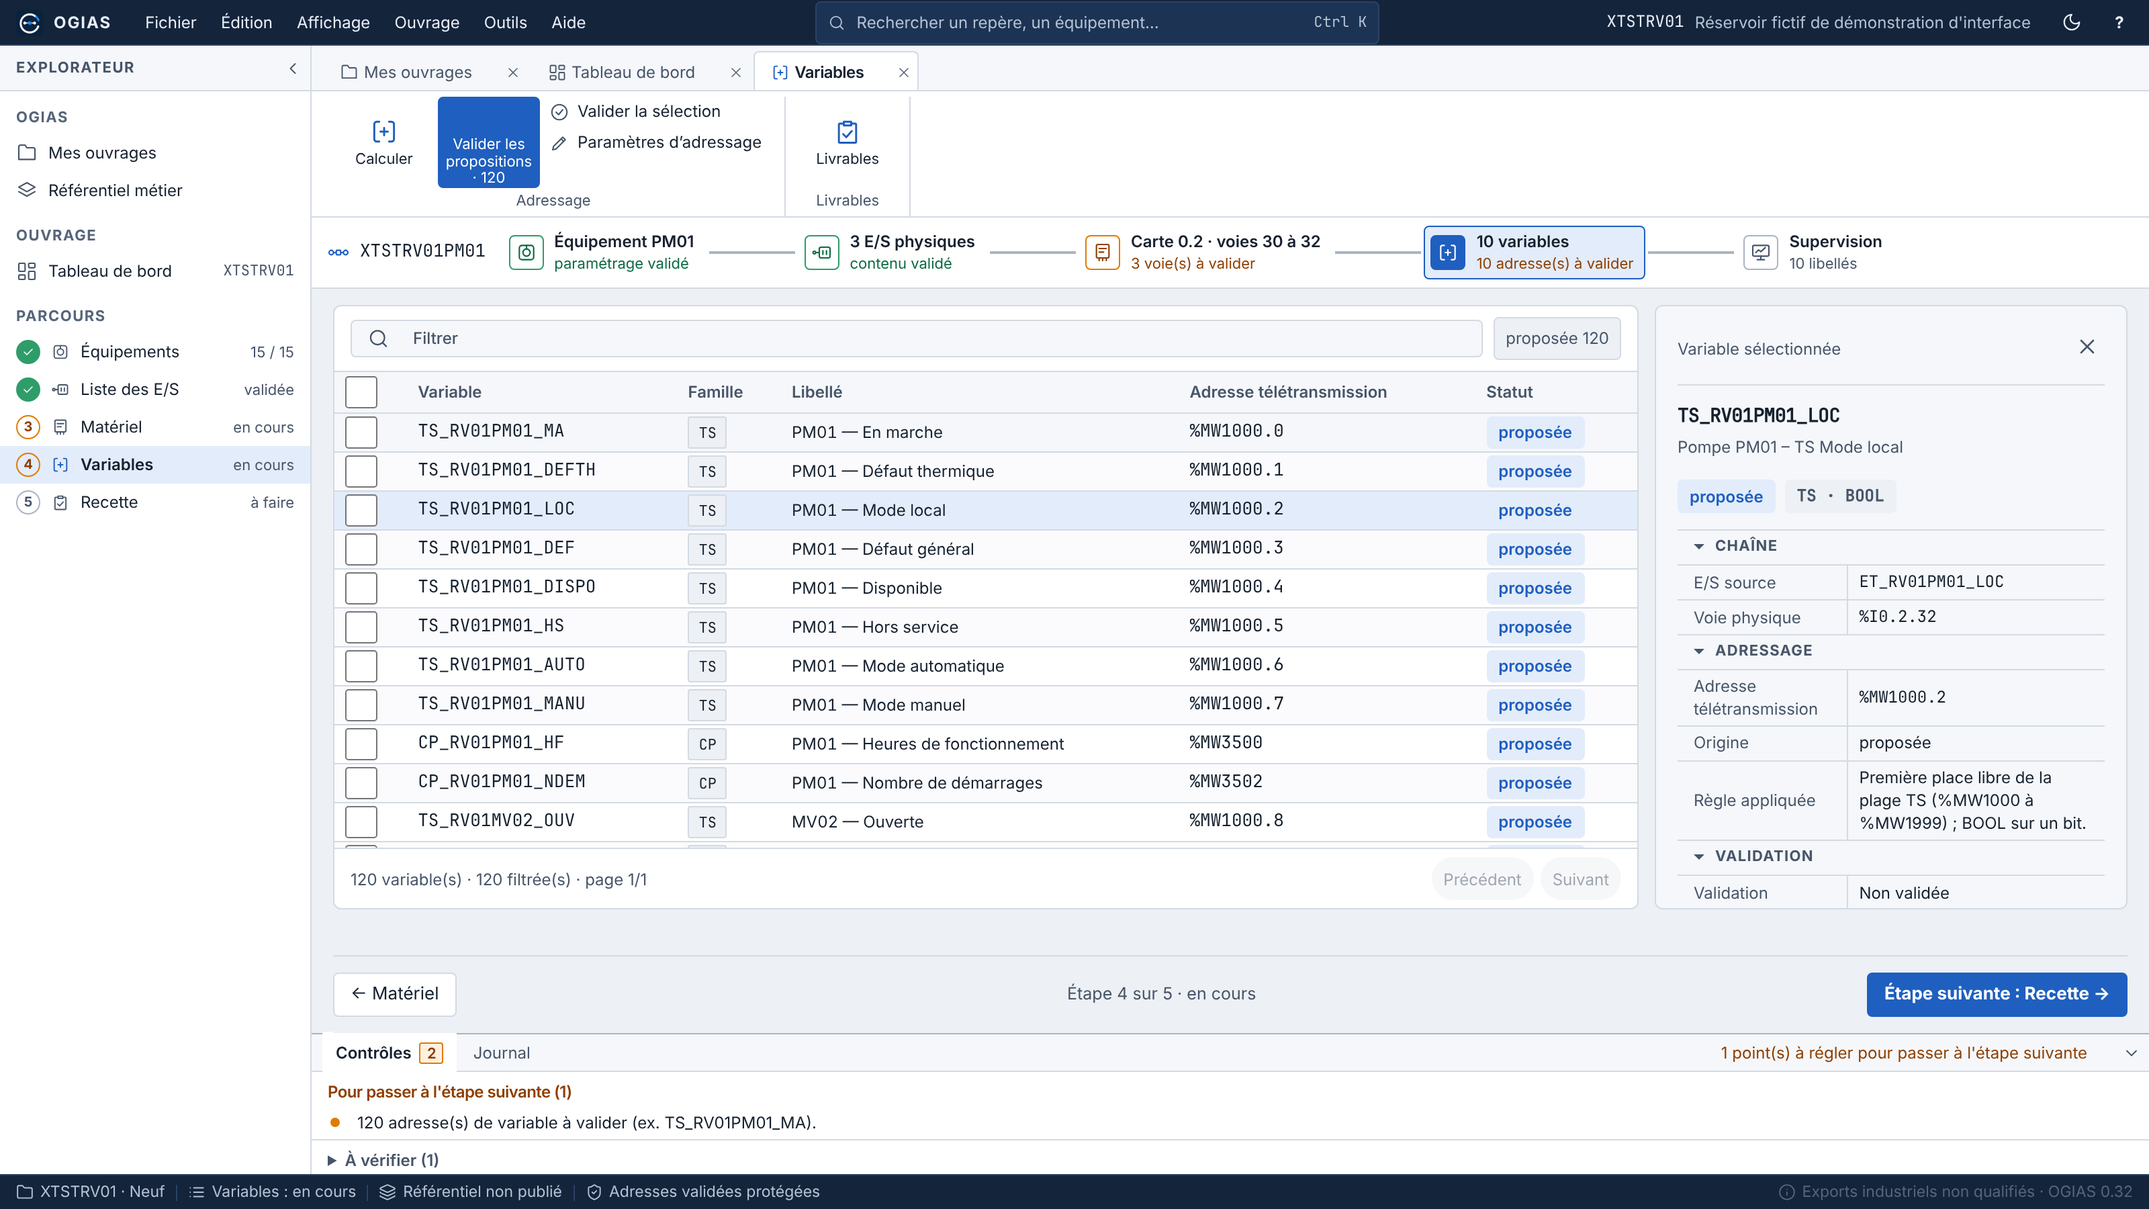
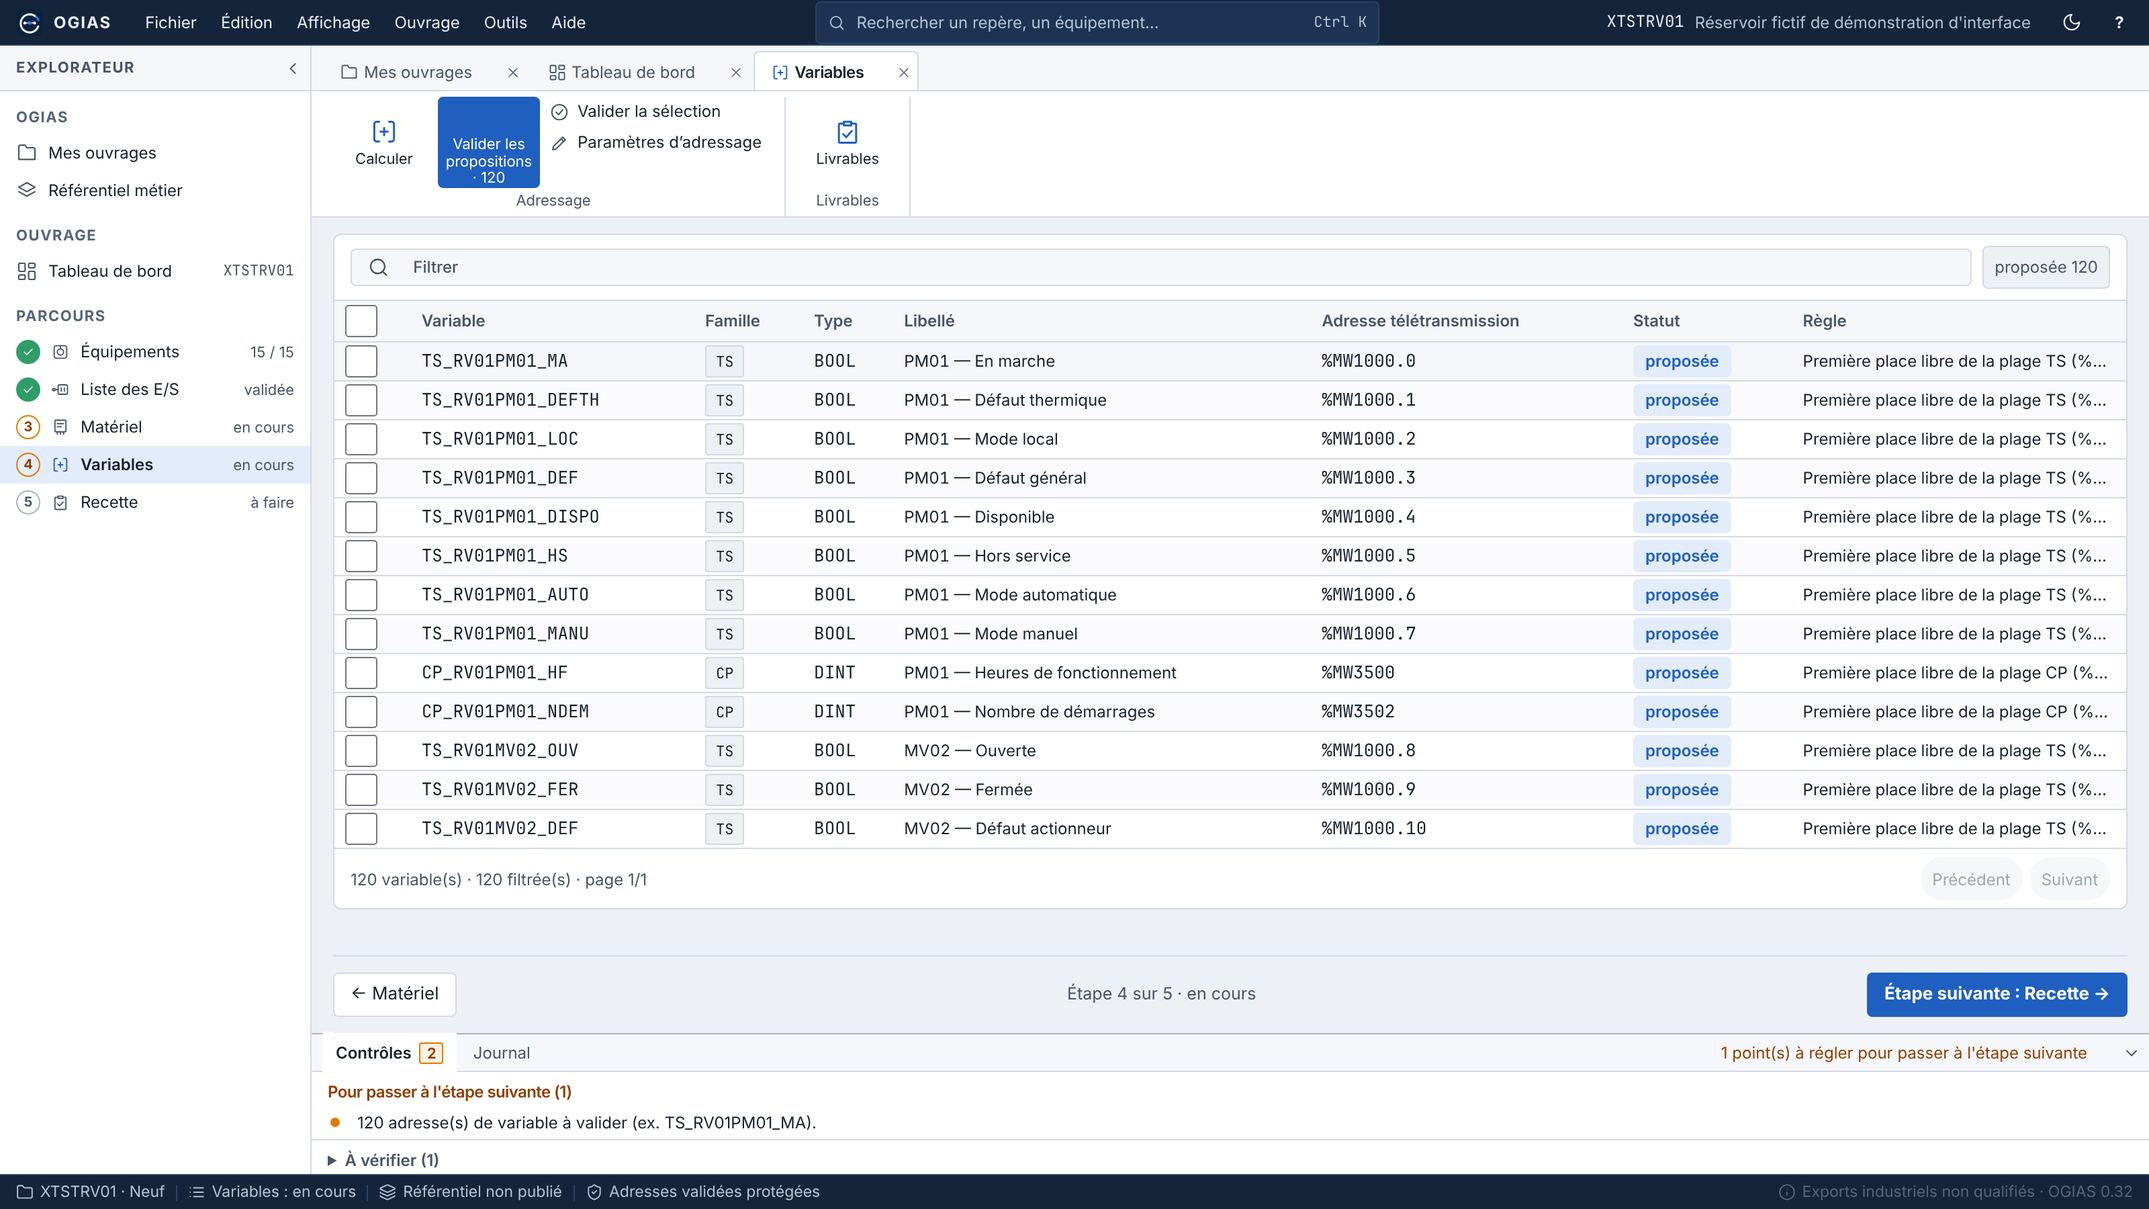
Variables : Famille et Type, adresse de télétransmission en %MW décalée au besoin (retours du 18/11, 19 h 53 à 20 h)
- Les E/S physiques ne sont jamais décalées.
- Une seule colonne « Adresse télétransmission », en %MW : c'est l'adresse que lit la supervision. Sans décalage,
  c'est l'adresse automate ; si l'utilisateur règle un décalage Modbus, ce sont ces %MW qui sont décalés
  (%MW1000.2 → %MW1100.2 pour 100). Plus de flèche ni de numéro de registre à part.
- Décalage saisi librement (entier, 0 par défaut, de -65535 à 65535) dans l'écran Adressage ; une adresse qui
  deviendrait négative est en conflit et bloque les exports.
- La colonne « Famille » (TS, TC, TM, TR, RTR, CP) reste ; ajout de la colonne « Type » (BOOL, INT, DINT, REAL…).

Claude-Session: https://claude.ai/code/session_01YHMiFfN7RqwgQ1d4qbK1Wa

Changed region(s): [[0.1562, 0.1867, 1.0, 0.7467]]

diff --git a/sorep_web/static/v031-variables.js b/sorep_web/static/v031-variables.js
@@ -61,14 +61,15 @@ document.addEventListener('keydown',ev=>{
    porte sur toute la liste filtrée : la colonne triée est appliquée aux données avant le découpage en pages. */
 const V31_PAGE=150;
 // Même texte que les cellules affichées (« — » compris), pour que le tri de la page par le tableau dense suive cet ordre.
-const V31_COLONNES={1:v=>v.nom,2:v=>v.famille,3:v=>v.libelle||v.commentaire||'—',4:(v,t)=>v31AdresseTele(v,t),
- 5:v=>v.etat_adressage||'non résolue',6:v=>v.motif||v.regle||'—'};
-/* Retour du 18/11 (19 h 28) : une seule colonne « Adresse télétransmission » = adresse automate. Si un décalage est
-   réglé pour l'ouvrage, le registre transmis suit la flèche (%MW400 → 401). */
+const V31_COLONNES={1:v=>v.nom,2:v=>v.famille,3:v=>v.type||'—',4:v=>v.libelle||v.commentaire||'—',5:(v,t)=>v31AdresseTele(v,t),
+ 6:v=>v.etat_adressage||'non résolue',7:v=>v.motif||v.regle||'—'};
+/* Retour du 18/11 (19 h 59) : une seule colonne « Adresse télétransmission », en %MW : c'est l'adresse que lit la
+   supervision. Sans décalage, c'est l'adresse automate ; avec le décalage Modbus réglé par l'utilisateur (écran
+   Adressage), c'est elle qui est décalée. Projet existant (pas de plan de télétransmission) : adresse historique. */
 function v31AdresseTele(v,t){
- const adr=v.adresse||v.adresse_proposee||'';if(!adr)return '—';
+ if(!t||!t.nom)return v.adresse||v.adresse_proposee||'—';
  const reg=t.adresse_protocole_actuelle||t.adresse_protocole_proposee||'';
- return reg&&reg!==adr.replace(/^%MW/i,'')?`${adr} → ${reg}`:adr;
+ return reg?'%MW'+reg:'—';
 }
 function v31Trier(rows,teleMap){
  const tri=Composants.triMemorise('variables');if(!tri||!V31_COLONNES[tri[0]])return rows;
@@ -82,12 +83,12 @@ function vueVariablesV31(){
  const shown=v31Trier(v31VarFilter(rows),teleMap);const page=Math.max(0,Math.min(E.v31Page||0,Math.floor(Math.max(shown.length-1,0)/V31_PAGE)));E.v31Page=page;const pageRows=shown.slice(page*V31_PAGE,(page+1)*V31_PAGE);const selectedVar=rows.find(x=>x.nom===selected)||null;
  const counts=['proposée','à valider','en conflit','validée','non résolue'].map(status=>[status,rows.filter(x=>x.etat_adressage===status).length]).filter(x=>x[1]);
  const withDetail=opened&&!!selectedVar;
- const body=pageRows.map(v=>{const t=teleMap.get(v.nom)||{}, current=v.adresse||'',proposed=v.adresse_proposee||'';
+ const body=pageRows.map(v=>{const t=teleMap.get(v.nom)||{};
    return `<tr class="v31-variable-row ${withDetail&&v.nom===selected?'selected':''}" tabindex="0" data-variable="${V31.esc(v.nom)}" title="Ouvrir le détail de ${V31.esc(v.nom)}">
      <td><input type="checkbox" class="v31-choose" data-ident="${V31.esc(v.ident_eq||'')}" data-cle="${V31.esc(v.cle||'')}" aria-label="Sélectionner ${V31.esc(v.nom)}" ${!neuf?'disabled':''}></td>
-     <td class="mono" title="${V31.esc(v.nom)}">${V31.esc(v.nom)}</td><td><span class="v31-family">${V31.esc(v.famille)}</span></td>
+     <td class="mono" title="${V31.esc(v.nom)}">${V31.esc(v.nom)}</td><td><span class="v31-family">${V31.esc(v.famille)}</span></td><td class="mono">${V31.esc(v.type||'—')}</td>
      <td class="v31-libelle" title="${V31.esc(v.libelle||v.commentaire||'')}">${V31.esc(v.libelle||v.commentaire||'—')}</td>
-     <td class="mono" title="${V31.esc(current||proposed?'Adresse automate, lue par la télétransmission':'Non attribuée')}">${V31.esc(v31AdresseTele(v,t))}${v.validee?` <span title="Adresse validée et protégée">${V31.icon('shield',13)}</span>`:''}</td>
+     <td class="mono" title="Adresse lue par la supervision (décalage Modbus compris)">${V31.esc(v31AdresseTele(v,t))}${v.validee?` <span title="Adresse validée et protégée">${V31.icon('shield',13)}</span>`:''}</td>
      <td>${v31Status(v.etat_adressage)}</td>
      <td class="v31-rule" title="${V31.esc(v.motif||v.regle||'')}">${V31.esc(v.motif||v.regle||'—')}</td></tr>`;}).join('');
  const available=rows.filter(x=>x.etat_adressage==='proposée'&&!x.validee).length;
@@ -115,8 +116,8 @@ function vueVariablesV31(){
  <button type="button" id="v31-livrables" title="La table des variables se télécharge dans Recette et livrables">Livrables</button></div></div>
  ${!neuf?'<div class="v31-inform">Projet existant : les adresses historiques sont conservées, sans réaffectation automatique.</div>':''}
  ${errCount?`<div class="v31-inform warning">${errCount} point(s) bloquant(s) ou non résolu(s). Les conflits doivent être corrigés avant la validation.</div>`:''}
- <div class="v31-table-area"><table class="v31-table" data-o-tableau="sans-selection" data-o-cle="variables"><thead><tr><th data-o-non-triable><input type="checkbox" id="v31-select-all" aria-label="Tout sélectionner" ${!neuf?'disabled':''}></th><th>Variable</th><th>Famille</th><th class="v31-libelle">Libellé</th><th>Adresse télétransmission</th><th>Statut</th><th class="v31-rule">Règle</th></tr></thead><tbody>
- ${body||`<tr><td colspan="7"><div class="v31-blank">Aucune variable à afficher avec ces filtres.</div></td></tr>`}</tbody></table></div>
+ <div class="v31-table-area"><table class="v31-table" data-o-tableau="sans-selection" data-o-cle="variables"><thead><tr><th data-o-non-triable><input type="checkbox" id="v31-select-all" aria-label="Tout sélectionner" ${!neuf?'disabled':''}></th><th>Variable</th><th>Famille</th><th>Type</th><th class="v31-libelle">Libellé</th><th>Adresse télétransmission</th><th>Statut</th><th class="v31-rule">Règle</th></tr></thead><tbody>
+ ${body||`<tr><td colspan="8"><div class="v31-blank">Aucune variable à afficher avec ces filtres.</div></td></tr>`}</tbody></table></div>
  <footer class="v31-table-footer"><span>${rows.length?`${rows.length} variable(s) · ${shown.length?`${shown.length} filtrée(s)`:'Aucun résultat'}`:'Aucune variable'} · page ${page+1}/${Math.max(1,Math.ceil(shown.length/V31_PAGE))}</span><div class="v31-page-controls"><button type="button" id="v31-prev-page" ${page===0?'disabled':''}>Précédent</button><button type="button" id="v31-next-page" ${(page+1)*V31_PAGE>=shown.length?'disabled':''}>Suivant</button></div>
  <button type="button" id="v31-adr-settings" class="v31-text-button">Paramètres d’adressage</button></footer></div>${detail}</section>`;
  // Tableau dense amélioré tout de suite, avant toute mise en page : une seule mise en page par rendu (banc des 5000 variables).

diff --git a/sorep_web/static/app.js b/sorep_web/static/app.js
@@ -327,8 +327,8 @@ function vueAdressage() {
       <input id="ad-rc" placeholder="Cible"><input id="ad-rm" placeholder="Motif"><button id="ad-res">Réserver</button></div></div>
     <div class="bloc"><div class="bloc-tete"><h2>Conventions de l'ouvrage</h2><span class="aide">déclarées par l'automaticien, jamais déduites</span></div>
      ${s4w ? `<div class="avert">SOFREL S4W : l'identification des points et des adresses dans S4W-Tools n'est pas connue. Aucun %MW ni registre Schneider n'est proposé.</div>` : `
-     <p class="aide">Adresse de télétransmission = adresse automate. Un décalage éventuel se règle de préférence dans la supervision.</p>
-     <label class="case">Décalage de l'adresse de télétransmission <select id="ad-dec"><option value="0" ${d.decalage == 0 ? "selected" : ""}>0 (par défaut)</option><option value="1" ${d.decalage == 1 ? "selected" : ""}>1</option></select></label>
+     <p class="aide">Les adresses de télétransmission (%MW lus par la supervision) reprennent l'adresse automate, décalée du nombre saisi ici (0 par défaut). Les E/S physiques ne sont jamais décalées.</p>
+     <label class="case">Décalage Modbus des adresses de télétransmission <input id="ad-dec" type="number" step="1" inputmode="numeric" value="${esc(String(d.decalage || 0))}" style="width:8em"></label>
      ${d.mode === "Existant" ? `<label class="case"><input type="checkbox" id="ad-dispo" ${d.disponibilite_verifiee ? "checked" : ""}> L'import couvre toute la mémoire utilisée (disponibilité vérifiée)</label>` : ""}`}
      ${d.journal.length ? `<p class="aide">Dernières applications : ${d.journal.slice(-3).reverse().map(j => `${esc(j.le)} (${esc(j.par || "?")}) : ${j.physique || 0} voie(s), ${j.automate || 0} adresse(s)`).join(" · ")}</p>` : ""}</div>
    </div></section>`;
@@ -346,7 +346,7 @@ function vueAdressage() {
     confirmer(`Valider ${paires.length} affectation(s) ?`, "Vous attestez ces adresses ; elles ne seront plus déplacées par le moteur.", "Valider", () => act({action: "valider", niveau: niv, paires}, "Affectations validées.")); };
   document.querySelectorAll(".ad-lib").forEach(b => b.onclick = () => act({action: "liberer", niveau: b.dataset.n, cible: b.dataset.c}, "Réservation libérée."));
   $("#ad-res").onclick = () => act({action: "reserver", niveau: $("#ad-rn").value, cible: $("#ad-rc").value, motif: $("#ad-rm").value}, "Réservation enregistrée.");
-  // Retour du 18/11 (19 h 28) : plus de convention à déclarer ; seul le décalage (0 par défaut) reste réglable.
+  // Retours du 18/11 : plus de convention à déclarer ; décalage saisi par l'utilisateur (entier, 0 par défaut).
   if($("#ad-dec")) $("#ad-dec").onchange = ev => act({action: "protocole", declare: true, decalage: ev.target.value}, "Décalage enregistré.");
   if ($("#ad-dispo")) $("#ad-dispo").onchange = ev => act({action: "disponibilite", verifiee: ev.target.checked}, "Disponibilité enregistrée.");
   piedEtape();

diff --git a/tests_web/test_variables_v031.py b/tests_web/test_variables_v031.py
@@ -79,6 +79,21 @@ class TestVariablesV031(ServeurNavigateur):
         self.assertIn('Adresse télétransmission', entetes)
         self.assertNotIn('Adresse automate', entetes)
         self.assertNotIn('Télétransmission', entetes)
+        # 20 h : la famille (TS, TC, TM, TR, RTR, CP) reste ; le type de donnée (BOOL, INT…) est ajouté à côté
+        self.assertEqual(entetes[2:4], ['Famille', 'Type'])
+        from genvar.modele import TAILLE_MOTS
+        self.assertIn(self.page.locator('.v31-variable-row').first.locator('td').nth(3).inner_text().strip(), TAILLE_MOTS)
+        # Adresse en %MW ; décalage Modbus saisi : les %MW affichés sont décalés (la supervision lit ces adresses)
+        premiere = self.page.locator('.v31-variable-row').first
+        nom = premiere.get_attribute('data-variable')
+        mot = lambda: int(premiere.locator('td').nth(5).inner_text().strip().removeprefix('%MW').split('.')[0])
+        avant_mot = mot()
+        self.api('/api/adressage/action', {'action': 'protocole', 'declare': True, 'decalage': 100})
+        self.page.evaluate('v31ReloadVariables()')          # attend la fin du rechargement
+        self.assertEqual(premiere.get_attribute('data-variable'), nom)
+        self.assertEqual(mot(), avant_mot + 100)
+        self.api('/api/adressage/action', {'action': 'protocole', 'declare': True, 'decalage': 0})
+        avant = fichier.read_bytes()
         self.assertEqual(fichier.read_bytes(), avant)
 
     def test_rows_match_mockup_density_and_keep_accessible_selection(self):
@@ -202,7 +217,7 @@ class TestVariablesV031(ServeurNavigateur):
                     self.assertIn("%MW", cellules[noms.index("Adresse télétransmission")]["texte"])
 
     def test_view_headers_match_visible_cells(self):
-        for view, excluded, count in [("unique", "Télétransmission", 7)]:
+        for view, excluded, count in [("unique", "Télétransmission", 8)]:
             with self.subTest(view=view):
                 headers = self.page.locator(".v31-table thead th").evaluate_all(
                     "els => els.filter(e => getComputedStyle(e).display !== 'none').map(e => e.textContent.trim())"

diff --git a/tests/test_moteur_adressage.py b/tests/test_moteur_adressage.py
@@ -316,9 +316,21 @@ class ScenarioF_Robustesse(Base):
         for k, a in tt.items():
             self.assertEqual(_mot("%MW" + a.proposee)[0], _mot(variables[k].adresse)[0])
         self.assertTrue(any("Retour" in a.regle for a in tt.values() if a.nature == "TR"))
-        s.declarer_protocole(True, 1)                                   # décalage réglé : registre = mot + 1
+        # Décalage saisi par l'utilisateur (19 h 53) : télétransmission seulement, l'adresse automate ne bouge jamais
+        avant = {k: v.adresse for k, v in variables.items()}
+        s.declarer_protocole(True, 100)
         for k, a in par_niveau(s.plan_adressage(), "teletransmission").items():
-            self.assertEqual(_mot("%MW" + a.proposee)[0], _mot(variables[k].adresse)[0] + 1)
+            self.assertEqual(_mot("%MW" + a.proposee)[0], _mot(variables[k].adresse)[0] + 100)
+        self.assertEqual({(v.ident_eq, v.cle): v.adresse for v in s.variables()}, avant)
+        auto = par_niveau(s.plan_adressage(), "automate")
+        self.assertTrue(all(_mot(a.actuelle or a.proposee)[0] == _mot(avant[k])[0] for k, a in auto.items()))
+        s.declarer_protocole(True, -100000 // 2)                        # adresse négative : en conflit, exports refusés
+        p = s.plan_adressage()
+        self.assertTrue(any(n == "teletransmission" and "négative" in m for n, m in p.conflits))
+        with self.assertRaises(RegleMetier):
+            s.declarer_protocole(True, "un")
+        with self.assertRaises(RegleMetier):
+            s.declarer_protocole(True, 70000)
 
     def test_persistance_des_affectations_et_traces(self):
         s = nouvelle("M340")

diff --git a/genvar/adressage.py b/genvar/adressage.py
@@ -321,10 +321,15 @@ def _teletransmission(session, plan, plat, controleur, eqs):
             a.etat, a.motif = "non résolue", "variable source sans adresse"
         else:
             reg = registre_modbus(va.adresse, o.decalage_modbus)
+            if reg.startswith("-"):
+                a.etat, a.motif = "en conflit", f"décalage {o.decalage_modbus} : adresse de télétransmission négative ({reg})"
+                plan.conflits.append(("teletransmission", f"{va.nom} : {a.motif}."))   # exports refusés
+                plan.affectations.append(a)
+                continue
             a.proposee = reg
             a.etat = "validée" if va.etat == "validée" else "proposée"
-            # Retour du 18/11 (19 h 28) : la télétransmission lit l'adresse automate ; un décalage n'est appliqué
-            # que s'il est réglé pour l'ouvrage (0 par défaut, sinon à régler dans la supervision).
+            # Retours du 18/11 : la télétransmission reprend l'adresse automate ; l'utilisateur peut saisir un
+            # décalage (0 par défaut), appliqué à la télétransmission seulement, jamais à l'adresse automate.
             a.regle = (f"Adresse automate {va.adresse}" + (f" + décalage {o.decalage_modbus}" if o.decalage_modbus else "")
                        + f" ; source {va.nom}.")
             if reg in reserves_points:

diff --git a/genvar/session.py b/genvar/session.py
@@ -1801,10 +1801,14 @@ class Session:
         self._change(devalider=False)
 
     def declarer_protocole(self, declare, decalage=0):
-        """Décalage de l'adresse de télétransmission (0 par défaut : la télétransmission lit l'adresse automate).
-        `declare` est conservé pour les fichiers et appels existants ; il n'est plus exigé (retour du 18/11)."""
-        if int(decalage) not in (0, 1):
-            raise RegleMetier("Décalage : 0 ou 1.")
+        """Décalage des adresses de télétransmission, saisi par l'utilisateur (entier, 0 par défaut). Il ne touche
+        jamais l'adresse automate. `declare` est conservé pour les fichiers et appels existants (retour du 18/11)."""
+        try:
+            decalage = int(decalage)
+        except (TypeError, ValueError):
+            raise RegleMetier("Décalage : un nombre entier (0 par défaut).") from None
+        if abs(decalage) > 65535:
+            raise RegleMetier("Décalage : entre -65535 et 65535.")
         self.ouvrage.protocole_declare, self.ouvrage.decalage_modbus = bool(declare), int(decalage)
         self._change(devalider=False)
 

diff --git a/genvar/modele.py b/genvar/modele.py
@@ -153,7 +153,8 @@ class Ouvrage:
     produit_xsy: str = "Control Expert"
     zones: dict = field(default_factory=lambda: dict(ZONES_DEFAUT))           # premier mot de chaque famille
     zones_fin: dict = field(default_factory=lambda: dict(ZONES_FIN_DEFAUT))   # dernier mot (inclus)
-    decalage_modbus: int = 0        # registre Modbus = numéro du mot %MW + décalage (0 ou 1 selon la convention)
+    decalage_modbus: int = 0        # décalage des adresses de TÉLÉTRANSMISSION, saisi par l'utilisateur (0 par défaut) ;
+                                    # l'adresse automate n'est jamais décalée
     sous_ensembles: list = field(default_factory=list)
     equipements: list = field(default_factory=list)
     unites: list = field(default_factory=list)          # UniteFonctionnelle

diff --git a/sorep_web/serveur.py b/sorep_web/serveur.py
@@ -862,7 +862,7 @@ class Application:
             self.s.retirer_reservation(d.get("niveau", ""), d.get("cible", ""))
             r = {}
         elif a == "protocole":
-            self.s.declarer_protocole(bool(d.get("declare")), int(d.get("decalage", 0) or 0))
+            self.s.declarer_protocole(bool(d.get("declare")), d.get("decalage", 0) or 0)
             r = {}
         elif a == "disponibilite":
             self.s.declarer_disponibilite(bool(d.get("verifiee")))
